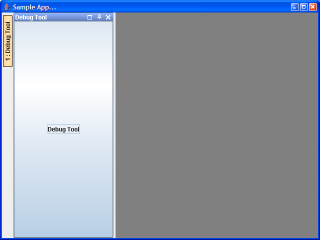
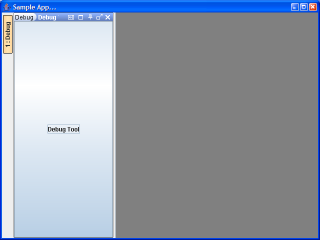
some updates...
git-svn-id: https://svn.code.sf.net/p/mydoggy/code/mydoggy/trunk@420 2a62bbde-051e-0410-bf3e-cfb6b34e140d

Changed region(s): [[0.0312, 0.0292, 0.3438, 0.0875], [0.0, 0.0875, 0.0625, 0.2917]]

diff --git a/mydoggy-examples/src/main/java/org/noos/xing/mydoggy/tutorial/SampleApp.java b/mydoggy-examples/src/main/java/org/noos/xing/mydoggy/tutorial/SampleApp.java
@@ -6,7 +6,6 @@ import org.noos.xing.mydoggy.event.ContentManagerUIEvent;
 import org.noos.xing.mydoggy.plaf.MyDoggyToolWindowManager;
 
 import javax.swing.*;
-import java.awt.*;
 import java.awt.event.ActionEvent;
 
 public class SampleApp {
@@ -48,11 +47,12 @@ public class SampleApp {
         this.toolWindowManager = myDoggyToolWindowManager;
 
         // Register a Tool.
-        toolWindowManager.registerToolWindow("Debug",                   // Id
-                                             "Debugging" ,              // Title
-                                             null,                      // Icon
-                                             new JButton("Debugging"),  // Component
-                                             ToolWindowAnchor.LEFT);    // Anchor
+        toolWindowManager.registerToolWindow("Debug",                      // Id
+                                             "Debug Tool",                 // Title
+                                             null,                         // Icon
+                                             new JButton("Debug Tool"),    // Component
+                                             ToolWindowAnchor.LEFT);       // Anchor
+
         setupDebugTool();
 
         // Made all tools available
@@ -65,12 +65,13 @@ public class SampleApp {
         this.frame.getContentPane().add(myDoggyToolWindowManager, "1,1,");
     }
 
-    protected void setupDebugTool() {
-        final ToolWindow debugTool = toolWindowManager.getToolWindow("Debug");
 
-        // Setup descriptors
+    protected void setupDebugTool() {
+        ToolWindow debugTool = toolWindowManager.getToolWindow("Debug");
+
         DockedTypeDescriptor dockedTypeDescriptor = (DockedTypeDescriptor) debugTool.getTypeDescriptor(ToolWindowType.DOCKED);
-        dockedTypeDescriptor.setDockLength(350);
+
+        dockedTypeDescriptor.setDockLength(300);
         dockedTypeDescriptor.setPopupMenuEnabled(true);
         JMenu toolsMenu = dockedTypeDescriptor.getToolsMenu();
         toolsMenu.add(new AbstractAction("Hello World!!!") {
@@ -98,8 +99,8 @@ public class SampleApp {
 
         FloatingTypeDescriptor floatingTypeDescriptor = (FloatingTypeDescriptor) debugTool.getTypeDescriptor(ToolWindowType.FLOATING);
         floatingTypeDescriptor.setEnabled(true);
-        floatingTypeDescriptor.setLocation(150, 200);
-        floatingTypeDescriptor.setSize(320, 200);
+        floatingTypeDescriptor.setLocation(150,200);
+        floatingTypeDescriptor.setSize(320,200);
         floatingTypeDescriptor.setModal(false);
         floatingTypeDescriptor.setTransparentMode(true);
         floatingTypeDescriptor.setTransparentRatio(0.2f);
@@ -116,17 +117,9 @@ public class SampleApp {
         profilingTab.setCloseable(true);
     }
 
-    public Container getFrame() {
-        return frame;
-    }
-
-    public void dispose() {
-        frame.setVisible(false);
-        frame.dispose();
-    }
 
     protected void initContentManager() {
-        JTree treeContent = new JTree();
+         JTree treeContent = new JTree();
 
         ContentManager contentManager = toolWindowManager.getContentManager();
         Content content = contentManager.addContent("Tree Key",
@@ -136,7 +129,8 @@ public class SampleApp {
         content.setToolTipText("Tree tip");
 
         setupContentManagerUI();
-    }
+     }
+
 
     protected void setupContentManagerUI() {
         TabbedContentManagerUI contentManagerUI = (TabbedContentManagerUI) toolWindowManager.getContentManager().getContentManagerUI();
@@ -153,6 +147,7 @@ public class SampleApp {
         });
 
         TabbedContentUI contentUI = contentManagerUI.getContentUI(toolWindowManager.getContentManager().getContent(0));
+
         contentUI.setCloseable(true);
         contentUI.setDetachable(true);
         contentUI.setTransparentMode(true);

diff --git a/mydoggy-examples/src/main/java/org/noos/xing/mydoggy/examples/mydoggyset/ui/MonitorPanel.java b/mydoggy-examples/src/main/java/org/noos/xing/mydoggy/examples/mydoggyset/ui/MonitorPanel.java
@@ -90,7 +90,7 @@ public class MonitorPanel extends JPanel {
             float usedMemory = monitorSource.getUsed();
             float freeMemory = totalMemory - usedMemory;
 
-            // .. Draw allocated and used strings ..
+            // Draw allocated and used strings
             backImageGrfx.setColor(Color.green);
             backImageGrfx.drawString(String.valueOf((int) totalMemory >> 10) + "K allocated", 4.0f, (float) ascent + 0.5f);
             String usedStr = String.valueOf(((int) usedMemory) >> 10) + "K used";
@@ -102,7 +102,7 @@ public class MonitorPanel extends JPanel {
             float blockHeight = remainingHeight / 10;
             float blockWidth = 20.0f;
 
-            // .. Memory Free ..
+            // Memory Free
             backImageGrfx.setColor(mfColor);
             int MemUsage = (int) (freeMemory / totalMemory * 10);
             int i = 0;
@@ -111,14 +111,14 @@ public class MonitorPanel extends JPanel {
                 backImageGrfx.fill(mfRect);
             }
 
-            // .. Memory Used ..
+            // Memory Used
             backImageGrfx.setColor(Color.green);
             for (; i < 10; i++) {
                 muRect.setRect(5, ssH + i * blockHeight, blockWidth, blockHeight - 1);
                 backImageGrfx.fill(muRect);
             }
 
-            // .. Draw History Graph ..
+            // Draw History Graph
             backImageGrfx.setColor(graphColor);
             int graphX = 30;
             int graphY = (int) ssH;
@@ -131,7 +131,7 @@ public class MonitorPanel extends JPanel {
                 backImageGrfx.draw(muRect);
             }
 
-            // .. Draw animated column movement ..
+            // Draw animated column movement
             int graphColumn = graphW / 15;
 
             if (columnInc == 0) {

diff --git a/mydoggy-examples/src/main/java/org/noos/xing/mydoggy/examples/mydoggyset/ui/RuntimeMemoryMonitorSource.java b/mydoggy-examples/src/main/java/org/noos/xing/mydoggy/examples/mydoggyset/ui/RuntimeMemoryMonitorSource.java
@@ -5,14 +5,14 @@ package org.noos.xing.mydoggy.examples.mydoggyset.ui;
  */
 public class RuntimeMemoryMonitorSource implements MonitorSource {
 
-    private Runtime r = Runtime.getRuntime();
+    private Runtime runtime = Runtime.getRuntime();
 
     public float getTotal() {
-        return r.totalMemory();
+        return runtime.totalMemory();
     }
 
     public float getUsed() {
-        return r.totalMemory() - r.freeMemory();
+        return runtime.totalMemory() - runtime.freeMemory();
     }
 
 }
